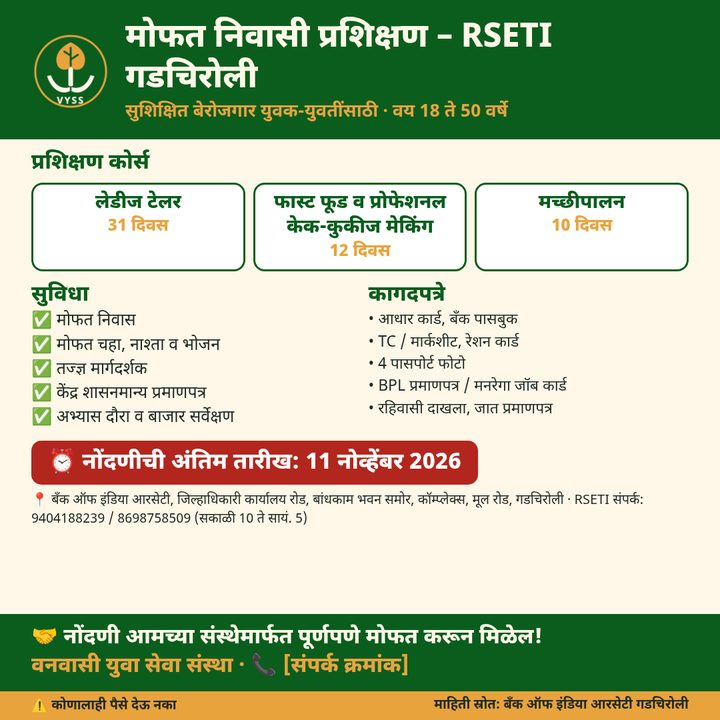
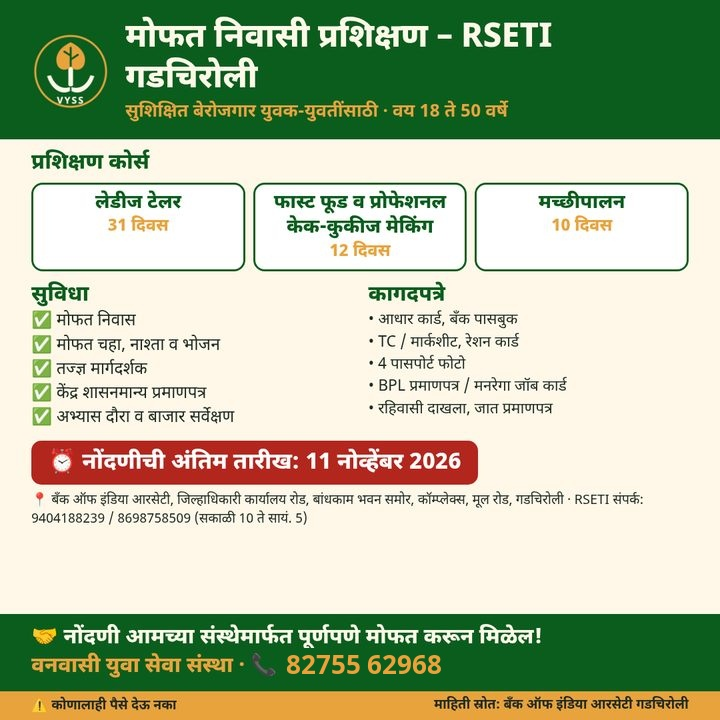
Show the VYSS WhatsApp number on the RSETI poster
Replace the baked-in contact placeholder with 82755 62968 and mention
that number in the poster alt text.

Changed region(s): [[0.3972, 0.8861, 0.6111, 0.9472]]

diff --git a/index.html b/index.html
@@ -105,7 +105,7 @@ footer{background:var(--d);color:#dfe6dc;padding:40px 0 20px;font-size:14px}.ft{
 <div class="b"><a class="btn s wa" href="https://wa.me/918275562968?text=%E0%A4%A8%E0%A4%AE%E0%A4%B8%E0%A5%8D%E0%A4%95%E0%A4%BE%E0%A4%B0%2C%20%E0%A4%AE%E0%A4%B2%E0%A4%BE%20%E0%A4%AF%E0%A5%8B%E0%A4%9C%E0%A4%A8%E0%A5%87%E0%A4%AC%E0%A4%A6%E0%A5%8D%E0%A4%A6%E0%A4%B2%20%E0%A4%AE%E0%A4%BE%E0%A4%B9%E0%A4%BF%E0%A4%A4%E0%A5%80%20%E0%A4%B9%E0%A4%B5%E0%A5%80%20%E0%A4%86%E0%A4%B9%E0%A5%87" target="_blank" rel="noopener">💬 WhatsApp वर विचारा</a><a class="btn o" href="#pahili-yojana">योजना पहा ↓</a></div></div></div>
 
 <section id="yojana"><div class="wrap"><div class="st"><small>Current Schemes</small><h2>सध्याच्या योजना</h2></div><div class="grid">
-<div class="card" id="pahili-yojana"><picture><source srcset="assets/post-720.webp" type="image/webp"><img src="assets/post-720.jpg" width="720" height="720" loading="lazy" alt="RSETI गडचिरोली मोफत निवासी प्रशिक्षण पोस्टर – लेडीज टेलर, फास्ट फूड व केक-कुकीज, मत्स्यपालन; वय 18–50; शेवटची तारीख 11 नोव्हें 2026"></picture><span class="badge u">शेवटची तारीख: 11 नोव्हें 2026</span><h3>RSETI गडचिरोली मोफत प्रशिक्षण</h3><p>बँक ऑफ इंडिया RSETI – निवासी मोफत प्रशिक्षण (वय 18–50): लेडीज टेलर, फास्ट फूड व केक-कुकीज, मत्स्यपालन.</p><a class="l wa" data-wa="नमस्कार, मला RSETI गडचिरोली मोफत प्रशिक्षणाबद्दल माहिती हवी आहे" href="https://wa.me/918275562968?text=%E0%A4%A8%E0%A4%AE%E0%A4%B8%E0%A5%8D%E0%A4%95%E0%A4%BE%E0%A4%B0%2C%20%E0%A4%AE%E0%A4%B2%E0%A4%BE%20RSETI%20%E0%A4%97%E0%A4%A1%E0%A4%9A%E0%A4%BF%E0%A4%B0%E0%A5%8B%E0%A4%B2%E0%A5%80%20%E0%A4%AE%E0%A5%8B%E0%A4%AB%E0%A4%A4%20%E0%A4%AA%E0%A5%8D%E0%A4%B0%E0%A4%B6%E0%A4%BF%E0%A4%95%E0%A5%8D%E0%A4%B7%E0%A4%A3%E0%A4%BE%E0%A4%AC%E0%A4%A6%E0%A5%8D%E0%A4%A6%E0%A4%B2%20%E0%A4%AE%E0%A4%BE%E0%A4%B9%E0%A4%BF%E0%A4%A4%E0%A5%80%20%E0%A4%B9%E0%A4%B5%E0%A5%80%20%E0%A4%86%E0%A4%B9%E0%A5%87" target="_blank" rel="noopener">मदत हवी? WhatsApp करा →</a><a class="l" href="yojana/rseti-gadchiroli/">पूर्ण माहिती वाचा →</a></div>
+<div class="card" id="pahili-yojana"><picture><source srcset="assets/post-720.webp" type="image/webp"><img src="assets/post-720.jpg" width="720" height="720" loading="lazy" alt="RSETI गडचिरोली मोफत निवासी प्रशिक्षण पोस्टर – लेडीज टेलर, फास्ट फूड व केक-कुकीज, मत्स्यपालन; वय 18–50; शेवटची तारीख 11 नोव्हें 2026; WhatsApp 82755 62968"></picture><span class="badge u">शेवटची तारीख: 11 नोव्हें 2026</span><h3>RSETI गडचिरोली मोफत प्रशिक्षण</h3><p>बँक ऑफ इंडिया RSETI – निवासी मोफत प्रशिक्षण (वय 18–50): लेडीज टेलर, फास्ट फूड व केक-कुकीज, मत्स्यपालन.</p><a class="l wa" data-wa="नमस्कार, मला RSETI गडचिरोली मोफत प्रशिक्षणाबद्दल माहिती हवी आहे" href="https://wa.me/918275562968?text=%E0%A4%A8%E0%A4%AE%E0%A4%B8%E0%A5%8D%E0%A4%95%E0%A4%BE%E0%A4%B0%2C%20%E0%A4%AE%E0%A4%B2%E0%A4%BE%20RSETI%20%E0%A4%97%E0%A4%A1%E0%A4%9A%E0%A4%BF%E0%A4%B0%E0%A5%8B%E0%A4%B2%E0%A5%80%20%E0%A4%AE%E0%A5%8B%E0%A4%AB%E0%A4%A4%20%E0%A4%AA%E0%A5%8D%E0%A4%B0%E0%A4%B6%E0%A4%BF%E0%A4%95%E0%A5%8D%E0%A4%B7%E0%A4%A3%E0%A4%BE%E0%A4%AC%E0%A4%A6%E0%A5%8D%E0%A4%A6%E0%A4%B2%20%E0%A4%AE%E0%A4%BE%E0%A4%B9%E0%A4%BF%E0%A4%A4%E0%A5%80%20%E0%A4%B9%E0%A4%B5%E0%A5%80%20%E0%A4%86%E0%A4%B9%E0%A5%87" target="_blank" rel="noopener">मदत हवी? WhatsApp करा →</a><a class="l" href="yojana/rseti-gadchiroli/">पूर्ण माहिती वाचा →</a></div>
 <div class="card"><span class="badge">ITDP अहेरी</span><h3>₹50,000 वैयक्तिक योजना</h3><p>आदिवासी (ST) लाभार्थ्यांसाठी ₹50,000 पर्यंतची वैयक्तिक योजना. अर्ज nbtribal.in वर. पात्रता व तारीख जाहिरातीनुसार.</p><a class="l wa" data-wa="नमस्कार, मला ₹50,000 वैयक्तिक योजनेबद्दल माहिती हवी आहे" href="https://wa.me/918275562968?text=%E0%A4%A8%E0%A4%AE%E0%A4%B8%E0%A5%8D%E0%A4%95%E0%A4%BE%E0%A4%B0%2C%20%E0%A4%AE%E0%A4%B2%E0%A4%BE%20%E2%82%B950%2C000%20%E0%A4%B5%E0%A5%88%E0%A4%AF%E0%A4%95%E0%A5%8D%E0%A4%A4%E0%A4%BF%E0%A4%95%20%E0%A4%AF%E0%A5%8B%E0%A4%9C%E0%A4%A8%E0%A5%87%E0%A4%AC%E0%A4%A6%E0%A5%8D%E0%A4%A6%E0%A4%B2%20%E0%A4%AE%E0%A4%BE%E0%A4%B9%E0%A4%BF%E0%A4%A4%E0%A5%80%20%E0%A4%B9%E0%A4%B5%E0%A5%80%20%E0%A4%86%E0%A4%B9%E0%A5%87" target="_blank" rel="noopener">मदत हवी? WhatsApp करा →</a><a class="l" href="yojana/itdp-vyaktigat-50000/">पूर्ण माहिती वाचा →</a></div>
 <div class="card"><span class="badge">महिला / बचत गट</span><h3>बचत गट योजना</h3><p>आदिवासी महिला बचत गटांसाठी ITDP मार्फत गट अनुदान योजना. रक्कम व पात्रता जाहिरातीनुसार – आमच्याकडून खात्री करा.</p><a class="l wa" data-wa="नमस्कार, मला बचत गट योजनेबद्दल माहिती हवी आहे" href="https://wa.me/918275562968?text=%E0%A4%A8%E0%A4%AE%E0%A4%B8%E0%A5%8D%E0%A4%95%E0%A4%BE%E0%A4%B0%2C%20%E0%A4%AE%E0%A4%B2%E0%A4%BE%20%E0%A4%AC%E0%A4%9A%E0%A4%A4%20%E0%A4%97%E0%A4%9F%20%E0%A4%AF%E0%A5%8B%E0%A4%9C%E0%A4%A8%E0%A5%87%E0%A4%AC%E0%A4%A6%E0%A5%8D%E0%A4%A6%E0%A4%B2%20%E0%A4%AE%E0%A4%BE%E0%A4%B9%E0%A4%BF%E0%A4%A4%E0%A5%80%20%E0%A4%B9%E0%A4%B5%E0%A5%80%20%E0%A4%86%E0%A4%B9%E0%A5%87" target="_blank" rel="noopener">मदत हवी? WhatsApp करा →</a><a class="l" href="yojana/bachat-gat/">पूर्ण माहिती वाचा →</a></div>
 <div class="card"><span class="badge">स्वयंरोजगार</span><h3>स्वयं योजना</h3><p>आदिवासी विकास विभागाच्या स्वयंरोजगार योजना. तपशील व अंतिम तारीख जाहिरातीनुसार – अर्जापूर्वी आमच्याशी खात्री करा.</p><a class="l wa" data-wa="नमस्कार, मला स्वयं योजनेबद्दल माहिती हवी आहे" href="https://wa.me/918275562968?text=%E0%A4%A8%E0%A4%AE%E0%A4%B8%E0%A5%8D%E0%A4%95%E0%A4%BE%E0%A4%B0%2C%20%E0%A4%AE%E0%A4%B2%E0%A4%BE%20%E0%A4%B8%E0%A5%8D%E0%A4%B5%E0%A4%AF%E0%A4%82%20%E0%A4%AF%E0%A5%8B%E0%A4%9C%E0%A4%A8%E0%A5%87%E0%A4%AC%E0%A4%A6%E0%A5%8D%E0%A4%A6%E0%A4%B2%20%E0%A4%AE%E0%A4%BE%E0%A4%B9%E0%A4%BF%E0%A4%A4%E0%A5%80%20%E0%A4%B9%E0%A4%B5%E0%A5%80%20%E0%A4%86%E0%A4%B9%E0%A5%87" target="_blank" rel="noopener">मदत हवी? WhatsApp करा →</a><a class="l" href="yojana/swayam-yojana/">पूर्ण माहिती वाचा →</a></div>

diff --git a/yojana/rseti-gadchiroli/index.html b/yojana/rseti-gadchiroli/index.html
@@ -11,14 +11,14 @@
 <meta property="og:image" content="https://vyss.in/assets/post-720.jpg">
 <meta property="og:image:width" content="720">
 <meta property="og:image:height" content="720">
-<meta property="og:image:alt" content="RSETI गडचिरोली मोफत निवासी प्रशिक्षण पोस्टर – लेडीज टेलर, फास्ट फूड व केक-कुकीज, मत्स्यपालन; वय 18–50; शेवटची तारीख 11 नोव्हें 2026">
+<meta property="og:image:alt" content="RSETI गडचिरोली मोफत निवासी प्रशिक्षण पोस्टर – लेडीज टेलर, फास्ट फूड व केक-कुकीज, मत्स्यपालन; वय 18–50; शेवटची तारीख 11 नोव्हें 2026; WhatsApp 82755 62968">
 <meta property="og:locale" content="mr_IN">
 <meta property="og:locale:alternate" content="hi_IN">
 <meta name="twitter:card" content="summary_large_image">
 <meta name="twitter:title" content="RSETI गडचिरोली मोफत निवासी प्रशिक्षण | VYSS नागेपल्ली">
 <meta name="twitter:description" content="बँक ऑफ इंडिया RSETI गडचिरोली: वय 18–50 साठी निवासी मोफत प्रशिक्षण – लेडीज टेलर, फास्ट फूड व केक-कुकीज, मत्स्यपालन. शेवटची तारीख 11 नोव्हें 2026.">
 <meta name="twitter:image" content="https://vyss.in/assets/post-720.jpg">
-<meta name="twitter:image:alt" content="RSETI गडचिरोली मोफत निवासी प्रशिक्षण पोस्टर – लेडीज टेलर, फास्ट फूड व केक-कुकीज, मत्स्यपालन; वय 18–50; शेवटची तारीख 11 नोव्हें 2026">
+<meta name="twitter:image:alt" content="RSETI गडचिरोली मोफत निवासी प्रशिक्षण पोस्टर – लेडीज टेलर, फास्ट फूड व केक-कुकीज, मत्स्यपालन; वय 18–50; शेवटची तारीख 11 नोव्हें 2026; WhatsApp 82755 62968">
 <link rel="preconnect" href="https://fonts.googleapis.com">
 <link rel="preconnect" href="https://fonts.gstatic.com" crossorigin>
 <link rel="stylesheet" href="https://fonts.googleapis.com/css2?family=Noto+Sans+Devanagari:wght@400;600;700;800&display=swap">
@@ -33,7 +33,7 @@
 <div class="b"><a class="btn s wa" data-wa="नमस्कार, मला RSETI गडचिरोली मोफत प्रशिक्षणाबद्दल माहिती हवी आहे" href="https://wa.me/918275562968?text=%E0%A4%A8%E0%A4%AE%E0%A4%B8%E0%A5%8D%E0%A4%95%E0%A4%BE%E0%A4%B0%2C%20%E0%A4%AE%E0%A4%B2%E0%A4%BE%20RSETI%20%E0%A4%97%E0%A4%A1%E0%A4%9A%E0%A4%BF%E0%A4%B0%E0%A5%8B%E0%A4%B2%E0%A5%80%20%E0%A4%AE%E0%A5%8B%E0%A4%AB%E0%A4%A4%20%E0%A4%AA%E0%A5%8D%E0%A4%B0%E0%A4%B6%E0%A4%BF%E0%A4%95%E0%A5%8D%E0%A4%B7%E0%A4%A3%E0%A4%BE%E0%A4%AC%E0%A4%A6%E0%A5%8D%E0%A4%A6%E0%A4%B2%20%E0%A4%AE%E0%A4%BE%E0%A4%B9%E0%A4%BF%E0%A4%A4%E0%A5%80%20%E0%A4%B9%E0%A4%B5%E0%A5%80%20%E0%A4%86%E0%A4%B9%E0%A5%87" target="_blank" rel="noopener">💬 WhatsApp वर विचारा</a><a class="btn o" href="/">← मुख्यपृष्ठ</a></div></div></div>
 <section><div class="wrap" style="max-width:820px"><div class="st"><small>Scheme</small><h2>योजनेची माहिती</h2></div>
 <div class="card">
-<picture><source srcset="/assets/post-720.webp" type="image/webp"><img src="/assets/post-720.jpg" width="720" height="720" loading="lazy" alt="RSETI गडचिरोली मोफत निवासी प्रशिक्षण पोस्टर – लेडीज टेलर, फास्ट फूड व केक-कुकीज, मत्स्यपालन; वय 18–50; शेवटची तारीख 11 नोव्हें 2026"></picture>
+<picture><source srcset="/assets/post-720.webp" type="image/webp"><img src="/assets/post-720.jpg" width="720" height="720" loading="lazy" alt="RSETI गडचिरोली मोफत निवासी प्रशिक्षण पोस्टर – लेडीज टेलर, फास्ट फूड व केक-कुकीज, मत्स्यपालन; वय 18–50; शेवटची तारीख 11 नोव्हें 2026; WhatsApp 82755 62968"></picture>
 <span class="badge u">शेवटची तारीख: 11 नोव्हें 2026</span>
 <h3>RSETI गडचिरोली मोफत प्रशिक्षण</h3>
 <p>RSETI मोफत स्वयंरोजगार प्रशिक्षणात कोणीही सहभागी होऊ शकतो.</p>
